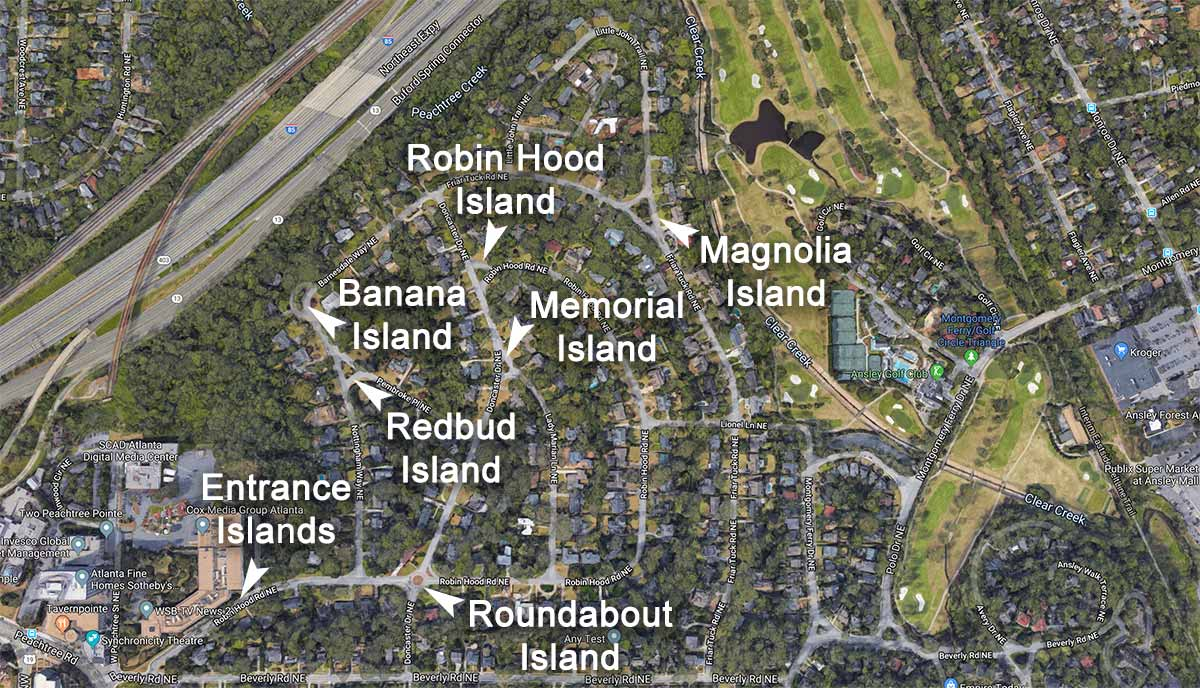
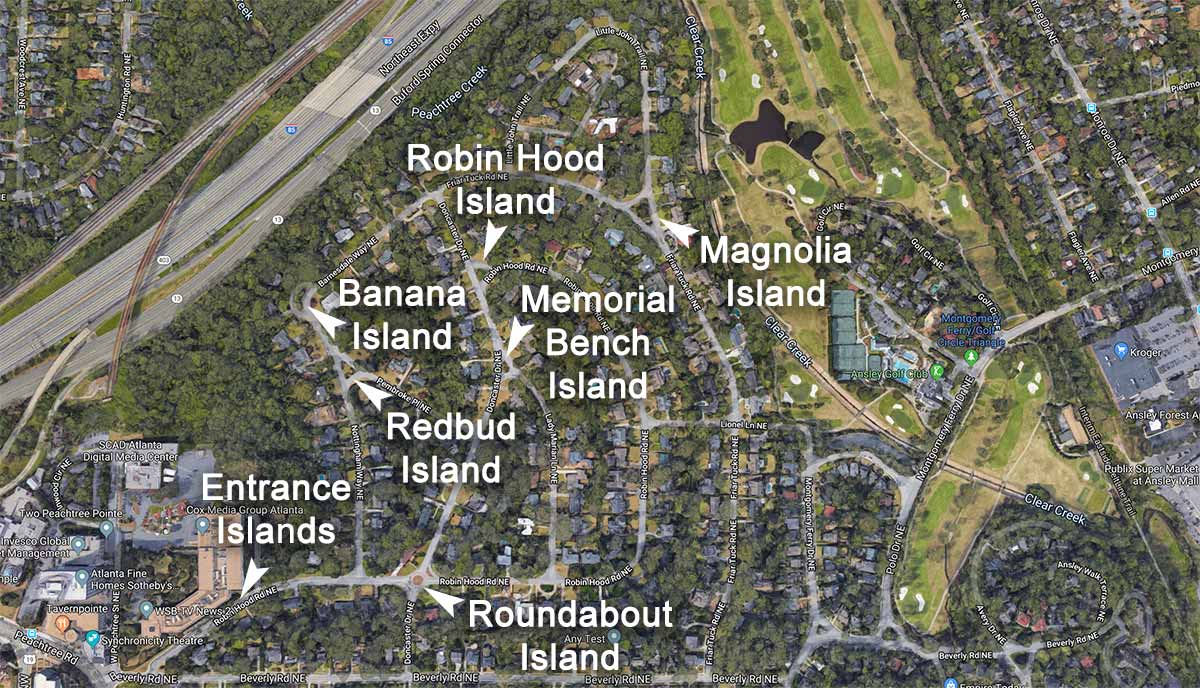
update islands and admin pages

Changed region(s): [[0.4317, 0.3968, 0.5858, 0.6105]]

diff --git a/src/app/membership/social/islands/islands.page.html b/src/app/membership/social/islands/islands.page.html
@@ -22,7 +22,7 @@
       <ion-col class="islands-format" size="12">
         <p>Each of the seven traffic islands in the neighborhood are distinct in name, planting,
           shape, and maintenance: Entrance, Roundabout, Redbud, Banana, Robin Hood,
-          Magnolia, and Memorial. Here’s a little information on each unique space.</p>
+          Magnolia, and Memorial Bench. Here’s a little information on each unique space.</p>
       </ion-col>
     </ion-row>
     <ion-row>
@@ -43,7 +43,7 @@
       </ion-col>
       <ion-col size-xl="4" size-lg="4" size-md="4" size-sm="12" size-xs="12">
         <ion-card class="welcome-card">
-          <ion-img src="/assets/ForestTannion2019More.jpg"></ion-img>
+          <ion-img src="/assets/Island-Roundabout.jpg"></ion-img>
           <ion-card-header text-center>
             <ion-card-title>The Roundabout Island</ion-card-title>
             <ion-card-subtitle>Robin Hood Road & Doncaster Drive</ion-card-subtitle>
@@ -59,7 +59,7 @@
       </ion-col>
       <ion-col size-xl="4" size-lg="4" size-md="4" size-sm="12" size-xs="12">
         <ion-card class="welcome-card">
-          <ion-img src="/assets/RedBudIsland.jpg"></ion-img>
+          <ion-img src="/assets/Island-Redbud.jpg"></ion-img>
           <ion-card-header text-center>
             <ion-card-title>Redbud Island</ion-card-title>
             <ion-card-subtitle>Nottingham Way & Pembroke Place</ion-card-subtitle>
@@ -77,7 +77,7 @@
     <ion-row>
       <ion-col size-xl="4" size-lg="4" size-md="4" size-sm="12" size-xs="12">
         <ion-card class="welcome-card">
-          <ion-img src="/assets/ForestTannion2019More.jpg"></ion-img>
+          <ion-img src="/assets/Island-Banana.jpg"></ion-img>
           <ion-card-header text-center>
             <ion-card-title>Banana Island</ion-card-title>
             <ion-card-subtitle>Nottingham Way & Barnesdale Way</ion-card-subtitle>
@@ -92,7 +92,7 @@
       </ion-col>
       <ion-col size-xl="4" size-lg="4" size-md="4" size-sm="12" size-xs="12">
         <ion-card class="welcome-card">
-          <ion-img src="/assets/ForestTannion2019More.jpg"></ion-img>
+          <ion-img src="/assets/Island-RobinHood.jpg"></ion-img>
           <ion-card-header text-center>
             <ion-card-title>Robin Hood</ion-card-title>
             <ion-card-subtitle>Robin Hood Road & Doncaster Drive</ion-card-subtitle>
@@ -106,7 +106,7 @@
       </ion-col>
       <ion-col size-xl="4" size-lg="4" size-md="4" size-sm="12" size-xs="12">
         <ion-card class="welcome-card">
-          <ion-img src="/assets/ForestTannion2019More.jpg"></ion-img>
+          <ion-img src="/assets/Island-Magnolia.jpg"></ion-img>
           <ion-card-header text-center>
             <ion-card-title>Magnolia Island</ion-card-title>
             <ion-card-subtitle>Friar Tuck Road & Little John Trail</ion-card-subtitle>
@@ -124,13 +124,13 @@
     <ion-row class="ion-justify-content-center">
       <ion-col size-xl="4" size-lg="4" size-md="4" size-sm="12" size-xs="12">
         <ion-card class="welcome-card">
-          <ion-img src="/assets/ForestTannion2019More.jpg"></ion-img>
+          <ion-img src="/assets/Island-MemorialBench.jpg"></ion-img>
           <ion-card-header text-center>
-            <ion-card-title>Memorial Island</ion-card-title>
+            <ion-card-title>Memorial Bench Island</ion-card-title>
             <ion-card-subtitle>Lady Marion Lane & Doncaster Drive</ion-card-subtitle>
           </ion-card-header>
           <ion-card-content>
-            Memorial Island is one of the central islands of the neighborhood. Located at the
+            Memorial Bench Island is one of the central islands of the neighborhood. Located at the
             convergence of three inner streets, Memorial island has three benches in honor
             of neighbors who have since passed away: A sturdy Eucalyptus bench in honor
             of Sally Morris and the second a green metal bench in honor of Denton Harris

diff --git a/src/app/admin/admin.page.ts b/src/app/admin/admin.page.ts
@@ -14,7 +14,12 @@ import { AlertService } from '../shared/services/alert.service';
 })
 export class AdminPage implements OnInit {
   allUsers;
-  users;
+  users: any[];
+  loadedUsers: any[];
+  filterBy: string = "lastName";
+  statusFirst: string = "primary";
+  statusLast: string = "secondary";
+  statusStreet: string = "primary";
   usersSubscription;
   showSpinner: boolean = false;
 
@@ -26,7 +31,89 @@ export class AdminPage implements OnInit {
     this.allUsers = this.userService.fetchUsers();
     this.usersSubscription = this.allUsers.subscribe(data => {
       this.users = data;
-      this.users.sort((a,b) => (a.address.streetNumber + a.address.streetName).localeCompare((b.address.streetNumber + b.address.streetName)));
+      this.users.sort((a,b) => (a.address.streetNumber + a.address.streetName)
+        .localeCompare((b.address.streetNumber + b.address.streetName)));
+      this.loadedUsers = this.users;
+    });
+
+  }
+
+  initializeList():void {
+    this.users = this.loadedUsers;
+  }
+
+  queryFirstName() {
+    this.filterBy = 'firstName';
+    this.statusFirst = "secondary";
+    this.statusLast = "primary";
+    this.statusStreet = "primary";
+  }
+
+  queryLastName() {
+    this.filterBy = 'lastName';
+    this.statusFirst = "primary";
+    this.statusLast = "secondary";
+    this.statusStreet = "primary";
+  }
+
+  queryStreetName() {
+    this.filterBy = 'streetName';
+    this.statusFirst = "primary";
+    this.statusStreet = "secondary";
+    this.statusLast = "primary";
+  }
+
+  filterByFirstName(event) {
+    this.initializeList();
+    const searchTerm = event.srcElement.value;
+
+    if(!searchTerm) {
+      return;
+    }
+    this.users = this.users.filter(member => {
+      if (member.displayName.firstName && searchTerm) {
+        if (member.displayName.firstName.toLowerCase()
+          .indexOf(searchTerm.toLowerCase()) > -1) {
+          return true;
+        }
+        return false;
+      }
+    });
+  }
+
+  filterByLastName(event) {
+    this.initializeList();
+    const searchTerm = event.srcElement.value;
+
+    if(!searchTerm) {
+      return;
+    }
+    this.users = this.users.filter(member => {
+      if (member.displayName.lastName && searchTerm) {
+        if (member.displayName.lastName.toLowerCase()
+          .indexOf(searchTerm.toLowerCase()) > -1) {
+          return true;
+        }
+        return false;
+      }
+    });
+  }
+
+  filterByStreetName(event) {
+    this.initializeList();
+    const searchTerm = event.srcElement.value;
+
+    if(!searchTerm) {
+      return;
+    }
+    this.users = this.users.filter(member => {
+      if (member.address.streetName && searchTerm) {
+        if (member.address.streetName.toLowerCase()
+          .indexOf(searchTerm.toLowerCase()) > -1) {
+          return true;
+        }
+        return false;
+      }
     });
   }
 

diff --git a/src/app/admin/admin.page.html b/src/app/admin/admin.page.html
@@ -10,9 +10,28 @@
 </ion-header>
 
 <ion-content padding>
-  <p>This is where you can view users and contact messages</p>
+  <p>All SFCA Users</p>
+  <ion-searchbar showCancelButton (ionInput)="filterByFirstName($event)"
+                 *ngIf="filterBy == 'firstName'" placeholder="Search by First Name">
+  </ion-searchbar>
+  <ion-searchbar showCancelButton (ionInput)="filterByLastName($event)"
+                 *ngIf="filterBy == 'lastName'" placeholder="Search by Last Name">
+  </ion-searchbar>
+  <ion-searchbar showCancelButton (ionInput)="filterByStreetName($event)"
+                 *ngIf="filterBy == 'streetName'"placeholder="Search by Street Name">
+  </ion-searchbar>
+  <ion-toolbar text-center class="toolbar-buttons">
+    <ion-button [color]="statusFirst" (click)="queryFirstName()">
+      First Name
+    </ion-button>
+    <ion-button [color]="statusLast" (click)="queryLastName()">
+      Last Name
+    </ion-button>
+    <ion-button [color]="statusStreet" (click)="queryStreetName()">
+      Street Name
+    </ion-button>
+  </ion-toolbar>
   <ion-list>
-    <ion-searchbar></ion-searchbar>
     <ion-spinner *ngIf="showSpinner" name="bubbles"></ion-spinner>
     <ion-item *ngFor="let user of users" lines="full" value="user.uid">
       <ion-thumbnail slot="start">

diff --git a/src/app/membership/directory/directory.page.ts b/src/app/membership/directory/directory.page.ts
@@ -19,7 +19,7 @@ export class DirectoryPage implements OnInit {
   loadedUsers: any[];
   usersSubscription;
   filterBy: string = "lastName";
-  statusLast: string = "primary";
+  statusLast: string = "secondary";
   statusStreet: string = "primary";
 
   constructor(private authService: AuthService,
@@ -53,13 +53,11 @@ export class DirectoryPage implements OnInit {
 
   filterByLastName(event) {
     this.initializeList();
-
     const searchTerm = event.srcElement.value;
 
     if(!searchTerm) {
       return;
     }
-
     this.users = this.users.filter(member => {
       if (member.displayName.lastName && searchTerm) {
         if (member.displayName.lastName.toLowerCase()
@@ -73,13 +71,11 @@ export class DirectoryPage implements OnInit {
 
   filterByStreetName(event) {
     this.initializeList();
-
     const searchTerm = event.srcElement.value;
 
     if(!searchTerm) {
       return;
     }
-
     this.users = this.users.filter(member => {
       if (member.address.streetName && searchTerm) {
         if (member.address.streetName.toLowerCase()

diff --git a/src/app/shared/guards/auth.guard.ts b/src/app/shared/guards/auth.guard.ts
@@ -27,7 +27,7 @@ export class AuthGuard implements CanActivate {
       const alert = await this.alertController.create({
         header: 'Blocked',
         subHeader: 'Members only',
-        message: 'You need to be a Sherwood Forest resident to access this page.',
+        message: 'You need to be a Sherwood Forest Civic Association member to access this page.',
         buttons: ['OK']
       });
       await alert.present();
